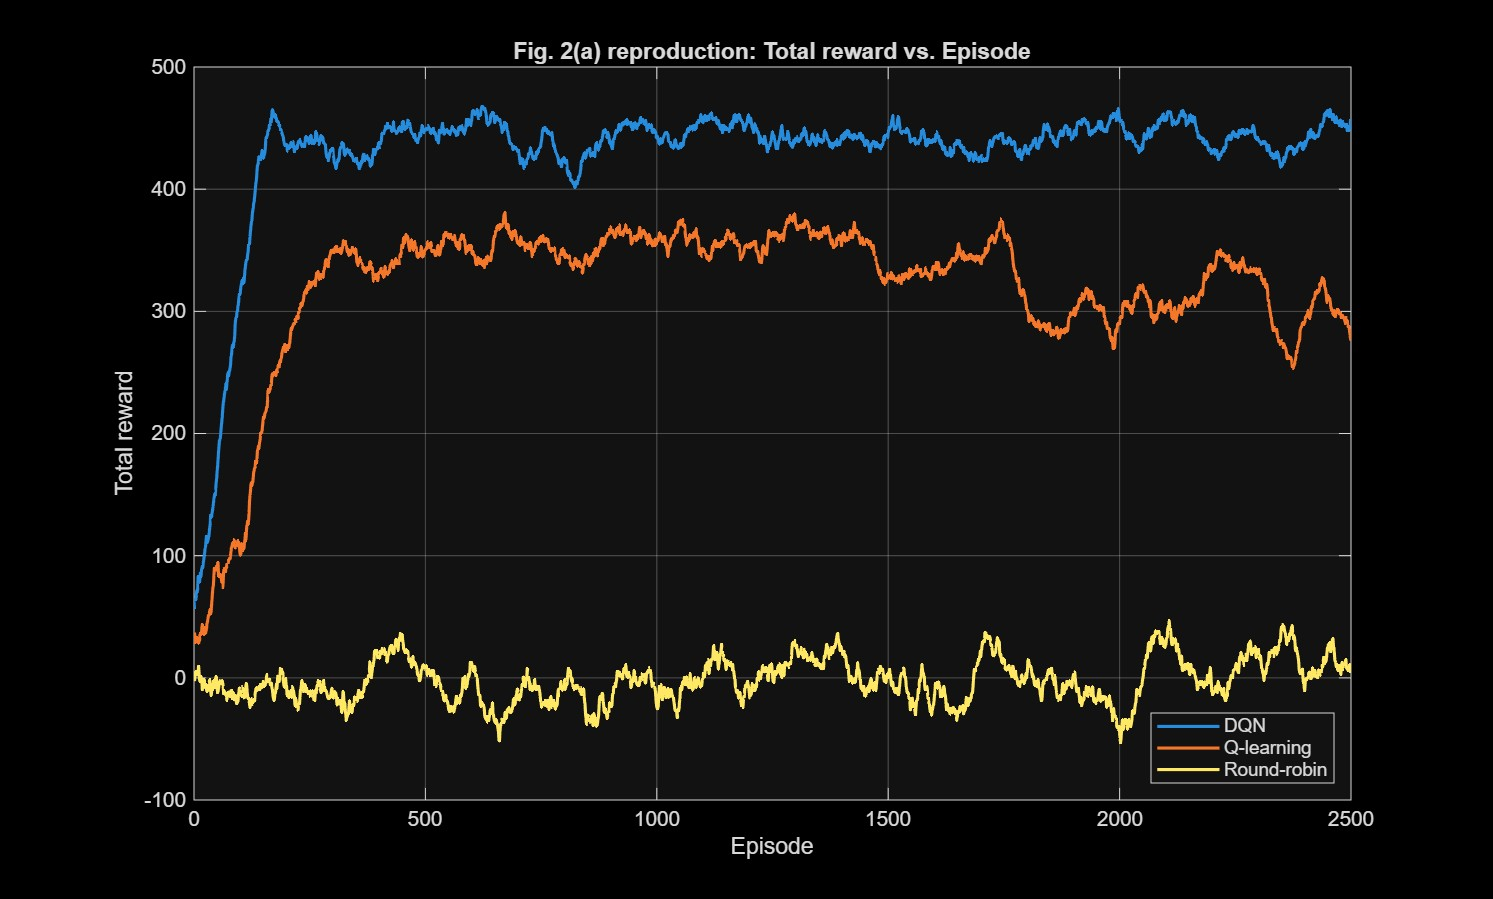
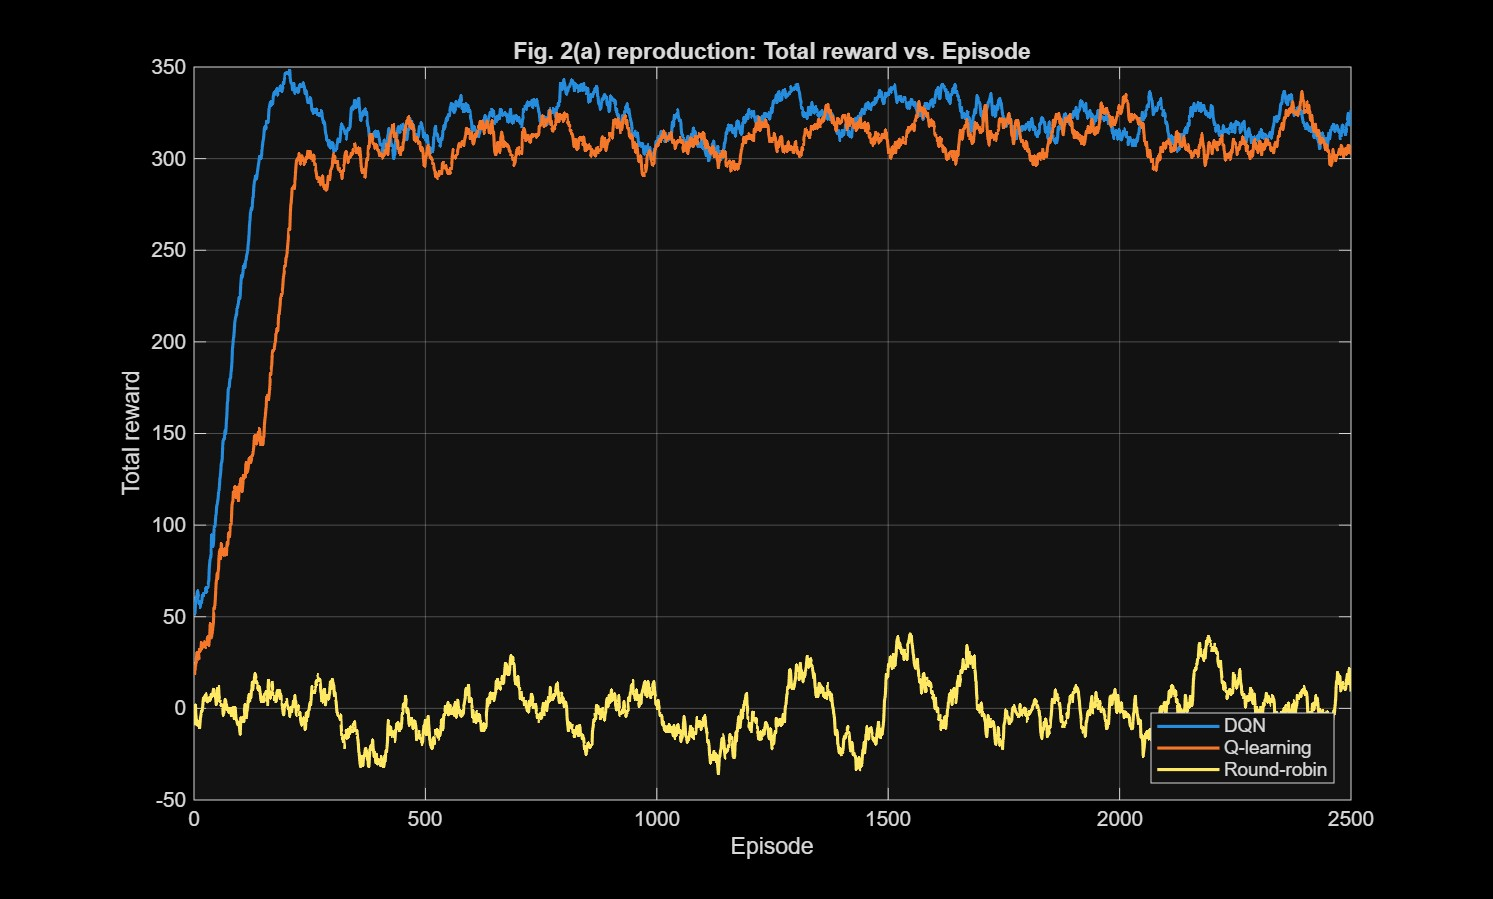
Tune T=220 and Q-learning alpha=0.02 in Fig 2(a) to match paper's reward scale and DQN/QL convergence

diff --git a/simulation 26-09/fig2a_simulation/fig2a_reward_vs_episode.m b/simulation 26-09/fig2a_simulation/fig2a_reward_vs_episode.m
@@ -3,11 +3,11 @@ clear; clc; rng(1);
 p = params();
 
 episodes = 2500;
-T = 300;
+T = 220;
 smooth_win = 61;
 
 fprintf('Training Q-learning (%d episodes x %d steps)...\n', episodes, T);
-[~, r_ql] = qlearning_train(p, episodes, T, 0.1);
+[~, r_ql] = qlearning_train(p, episodes, T, 0.02);
 
 fprintf('Training DQN (%d episodes x %d steps)...\n', episodes, T);
 opts.seed = 1;
